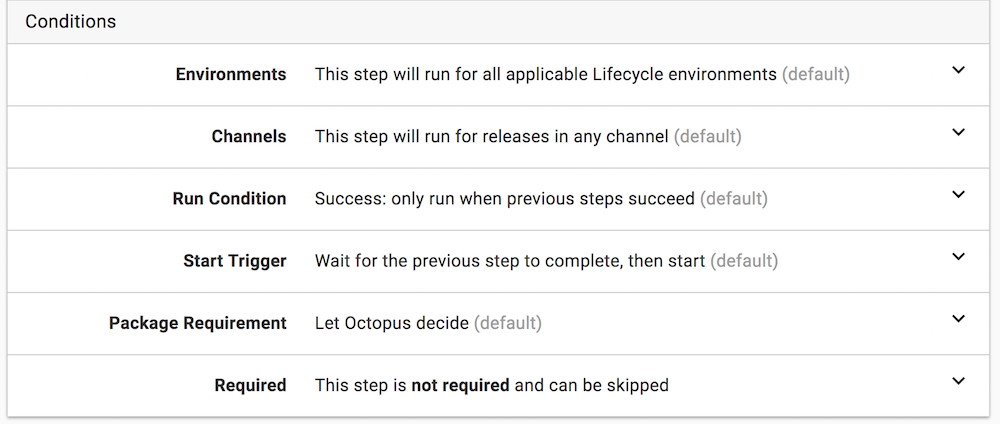
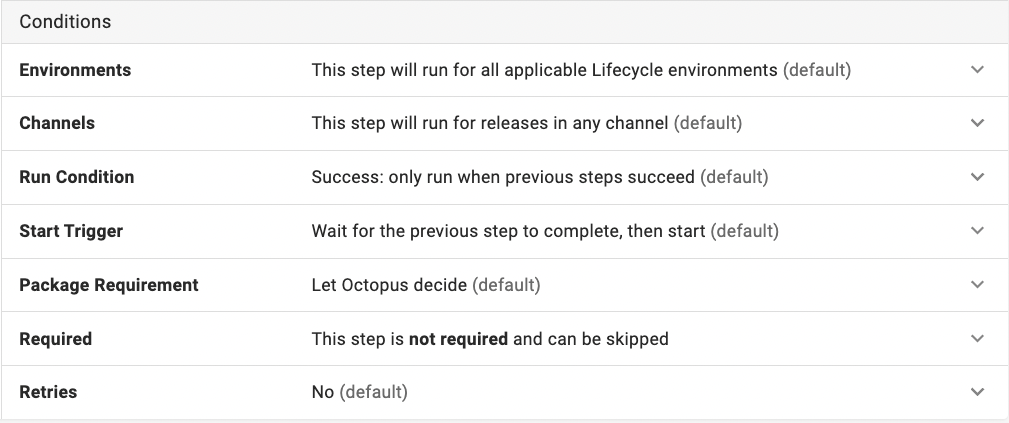
Add documentation around retries in step conditions

diff --git a/docs/projects/steps/conditions/index.md b/docs/projects/steps/conditions/index.md
@@ -12,6 +12,7 @@ For each [step](/docs/projects/steps/index.md) that you define in your [deployme
 - Run steps in parallel with a previous step.
 - Specify whether the step runs before or after package acquisition.
 - Make the step a required step that cannot be skipped.
+- Retry a step upon failure.
 
 ![Conditions](images/conditions.png "width=500")
 
@@ -138,3 +139,7 @@ This option is hidden when it does not make sense, for example, when a script st
 ## Required
 
 By default, deployment steps can be skipped when creating a deployment. Marking a step as Required prevents the step from being skipped.
+
+## Retries
+
+Enabling this option gives you the ability to automatically retry a step if it fails, with up to three attempts. This feature is particularly useful when dealing with steps that commonly fail due to temporary or transient errors during deployment.
